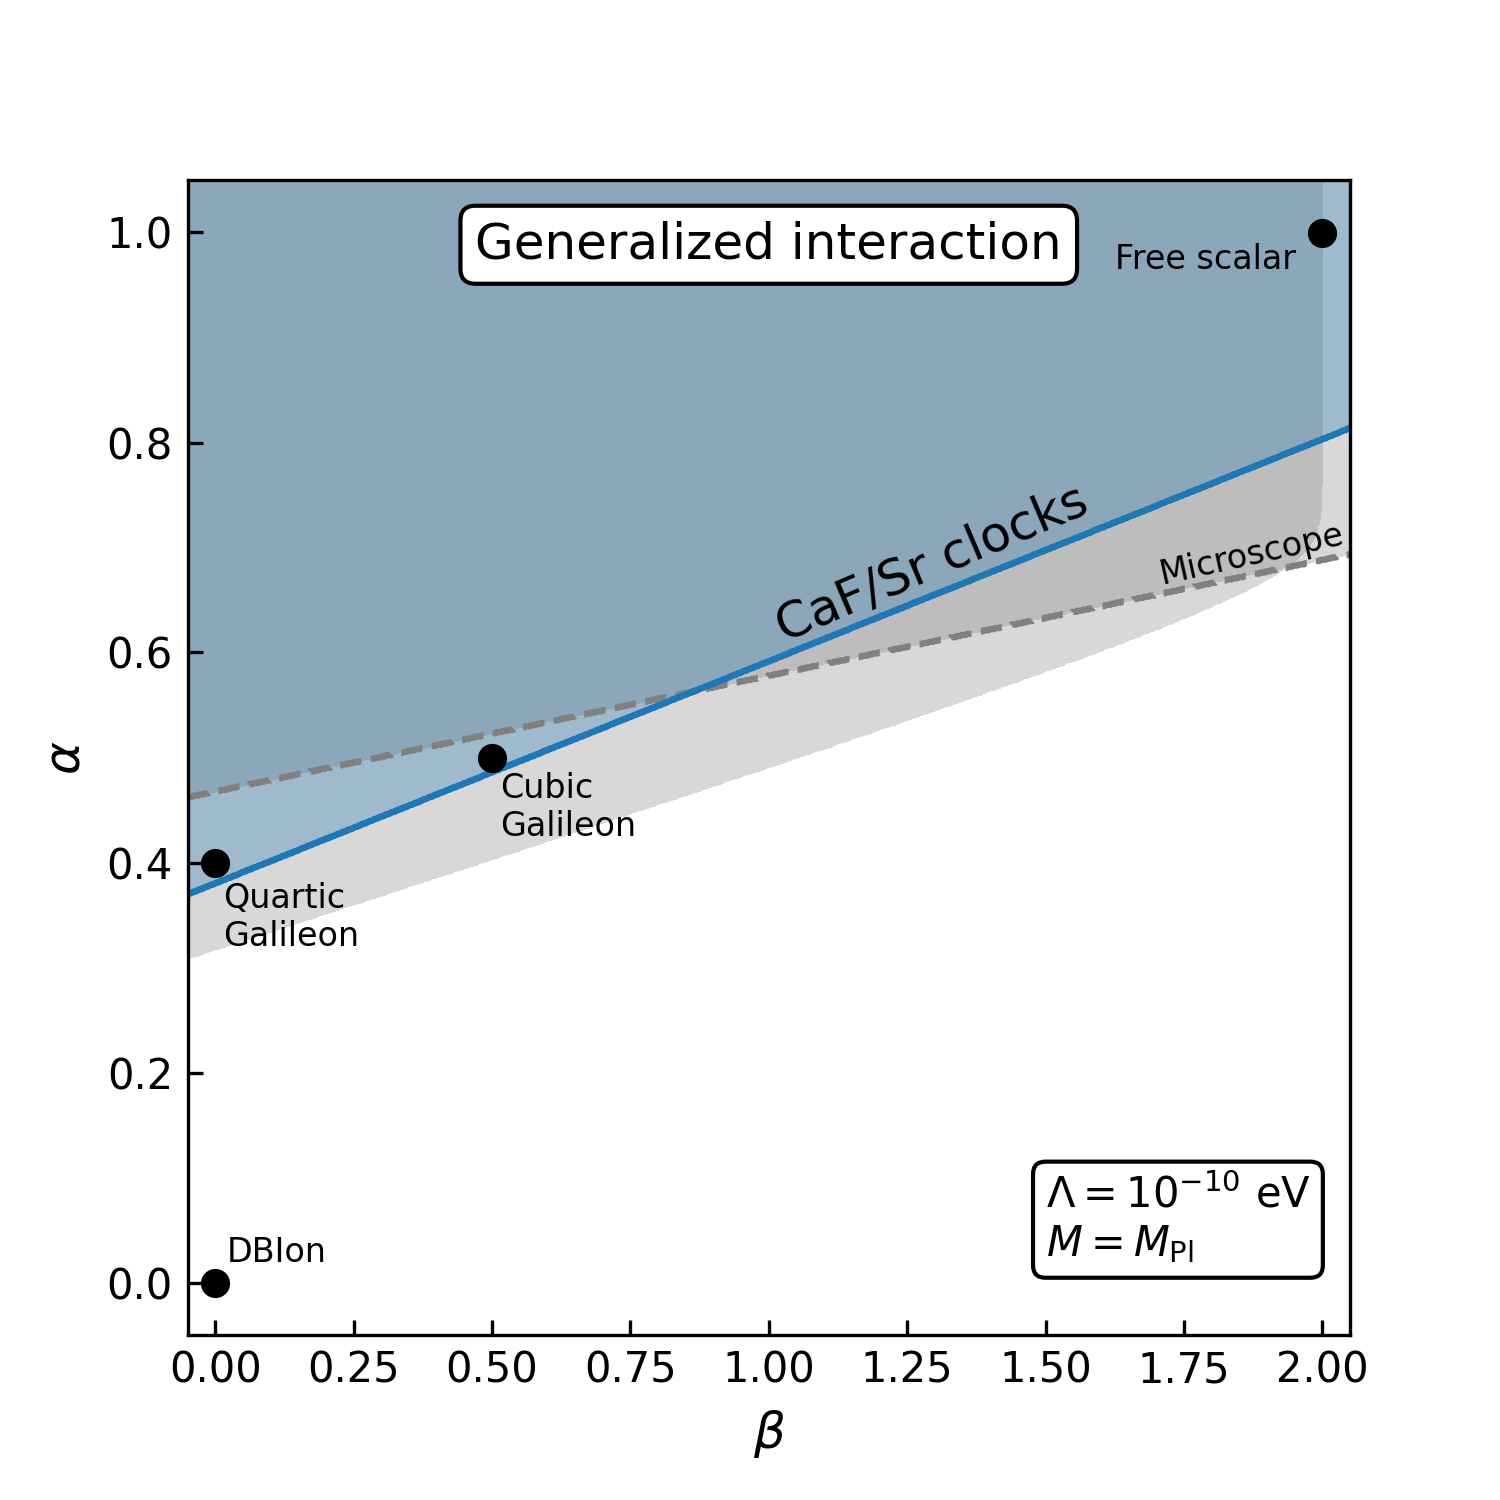
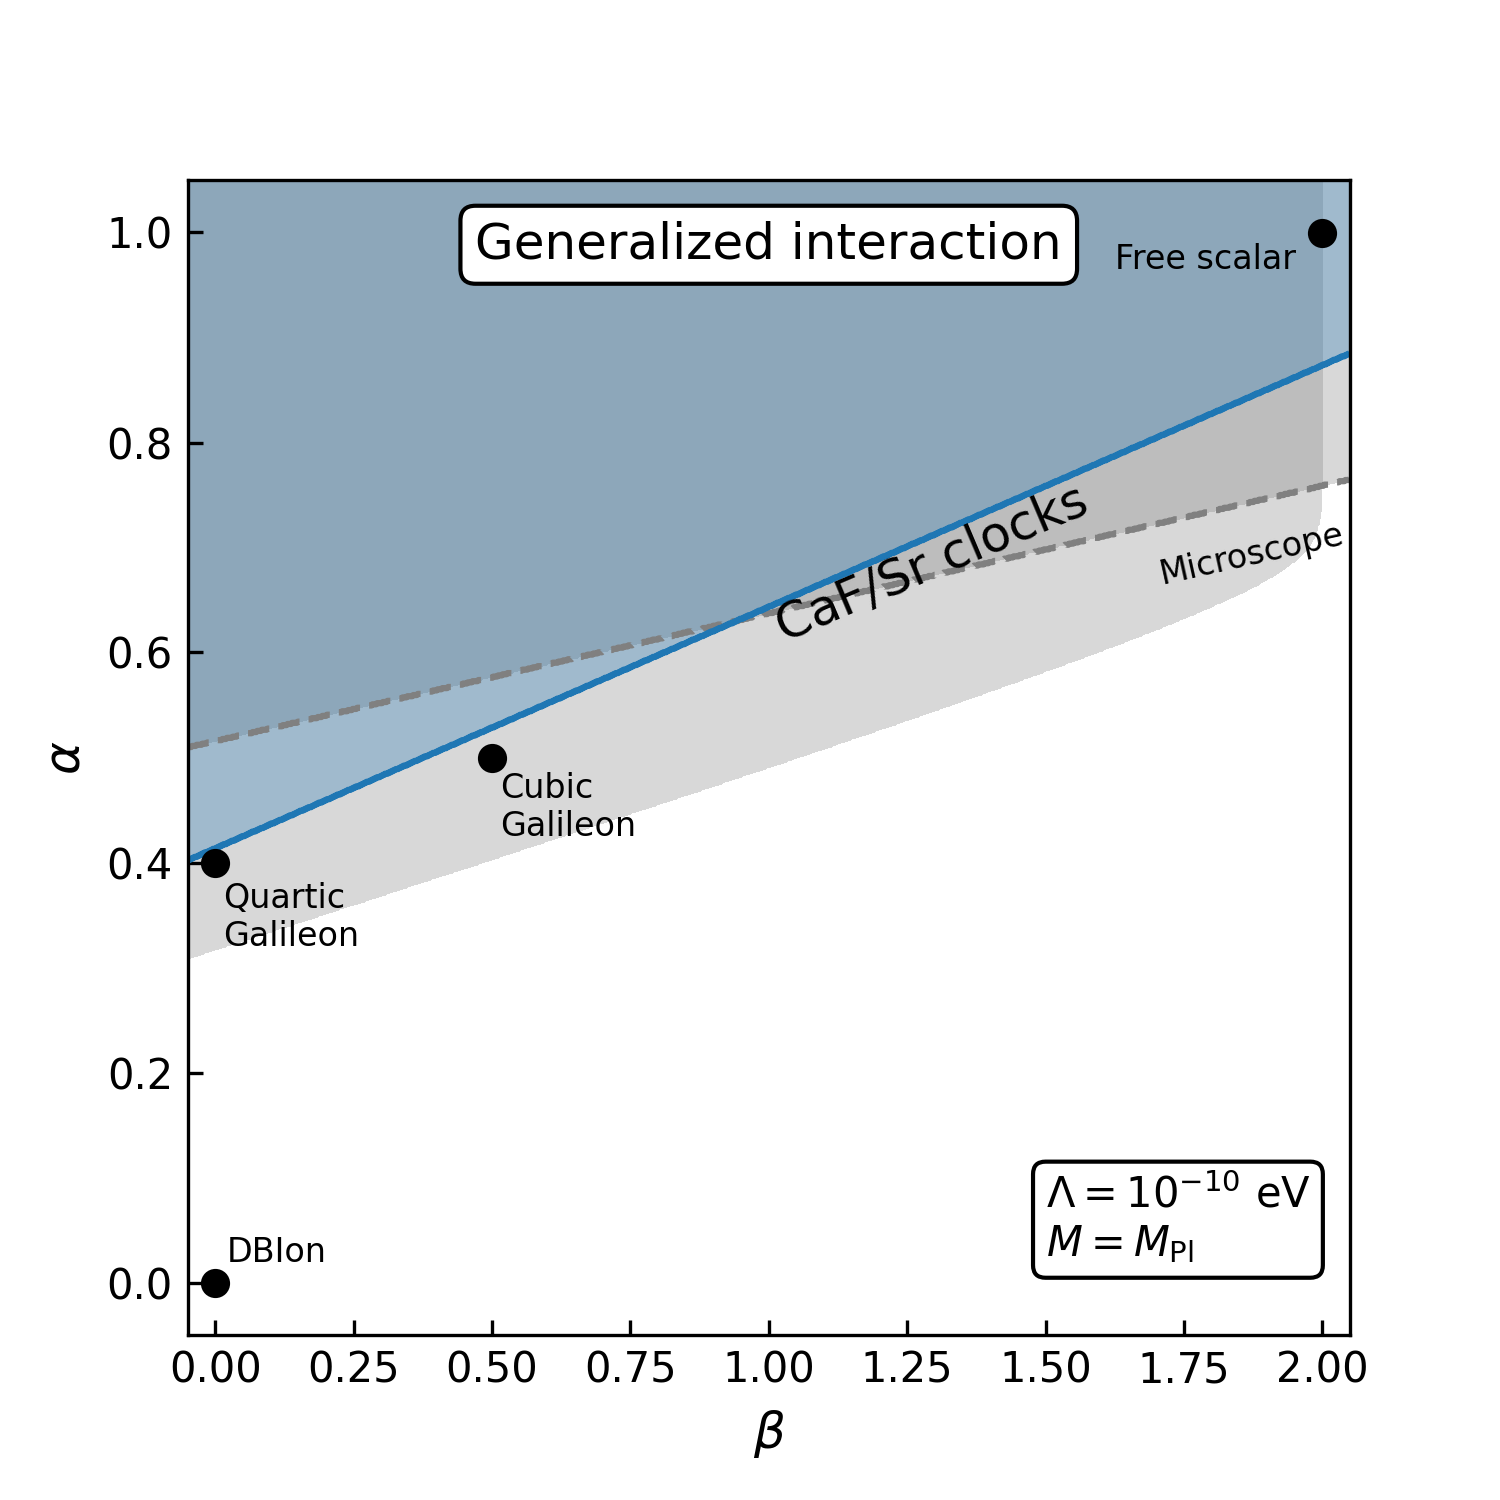
electron only couplings
Multiply masses and geodesics by 1e-3, to approximate coupling to electrons only

Changed region(s): [[0.1227, 0.2147, 0.92, 0.6133]]

diff --git a/theory/bounds.py b/theory/bounds.py
@@ -40,7 +40,7 @@ def microscope(M, M_e, dphi):
     """
     eta = microscope_eta
     R = microscope_r
-    m = earth_mass
+    m = earth_mass * 1e-3
 
     # TO DO: m should be fixed up to only be sourced by the 
     # appropriate combination of m, M, M_e
@@ -55,6 +55,7 @@ def microscope(M, M_e, dphi):
     out *= (M**-1 - M_e**-1)
     out *= (eps_Pt - eps_Ti)
     out *= dphi(m, R)
+    out *= 1e-3
 
     out = np.abs(out)
 
@@ -65,7 +66,7 @@ def LLR(M, L):
     """ Lunar laser ranging bound on the cubic galileon
     As described in 1407.0059 """
 
-    rV = rV3(M, L, earth_mass)
+    rV = rV3(M, L, earth_mass * 1e-3)
 
     g = Mpl / M
     R = earth_moon_distance
@@ -84,20 +85,20 @@ delta_phi_LLR = 2.4e-11
 def LLR3(M, L):
     """ Lunar laser ranging bound for cubic galileon.
     Described in 1106.1573 """ 
-    m = earth_mass
+    m = earth_mass * 1e-3
     R = earth_moon_distance
     dphi = delta_phi_LLR
 
-    rhs = 3*PI/2 * Mpl**2 * (8*PI * L**3 * R**3 /(m * M**3))**0.5
+    rhs = 1e-3 * 3*PI/2 * Mpl**2 * (8*PI * L**3 * R**3 /(m * M**3))**0.5
     return dphi < rhs
 
 def LLR4(M, L, c4):
     """ LLR quartic galileon """
-    m = earth_mass
+    m = earth_mass * 1e-3
     R = earth_moon_distance
     dphi = delta_phi_LLR
 
-    rhs = 2*PI * Mpl**2 * L**2
+    rhs = 1e-3 * 2*PI * Mpl**2 * L**2
     rhs *= ((8*PI)**2 / (c4 * M**4 * m**2))**(1/3.) * R**2
     return dphi < rhs
 

diff --git a/plot_MG.py b/plot_MG.py
@@ -28,7 +28,7 @@ def clock_bound(M, dphi):
     """
     A = mc.MG_max_amplitude('CaF/Sr')   # dimensionless
 
-    M_obj = solar_mass
+    M_obj = solar_mass * 1e-3
     r = AU
     e = earth_eccentricity
 
@@ -39,7 +39,6 @@ def clock_bound(M, dphi):
 
 ### Galileon ###
 plt.figure(1, figsize=po.figsize)
-
 xmin, xmax = -16, 0
 X, Y = np.meshgrid(
         np.linspace(xmin, xmax, po.resolution),
